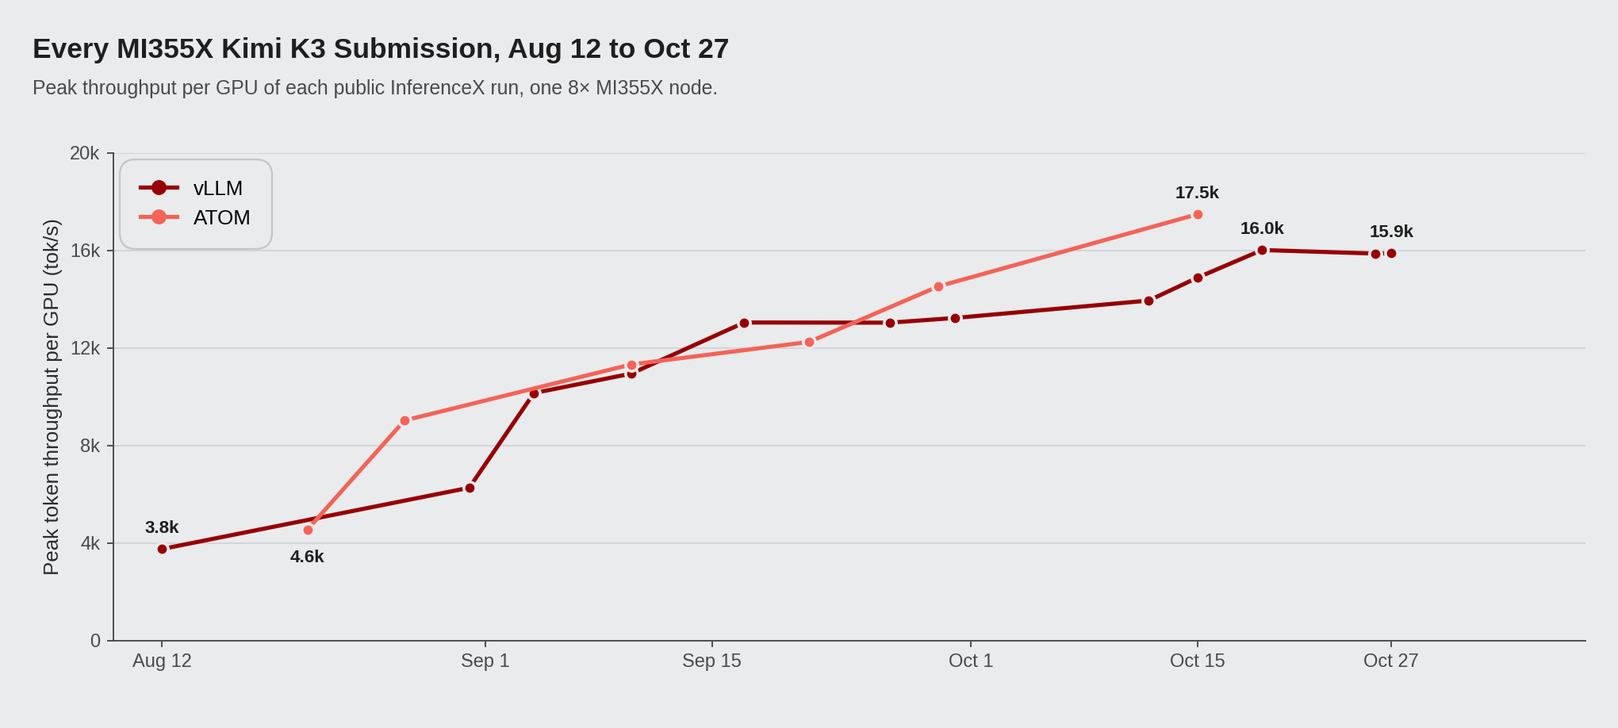
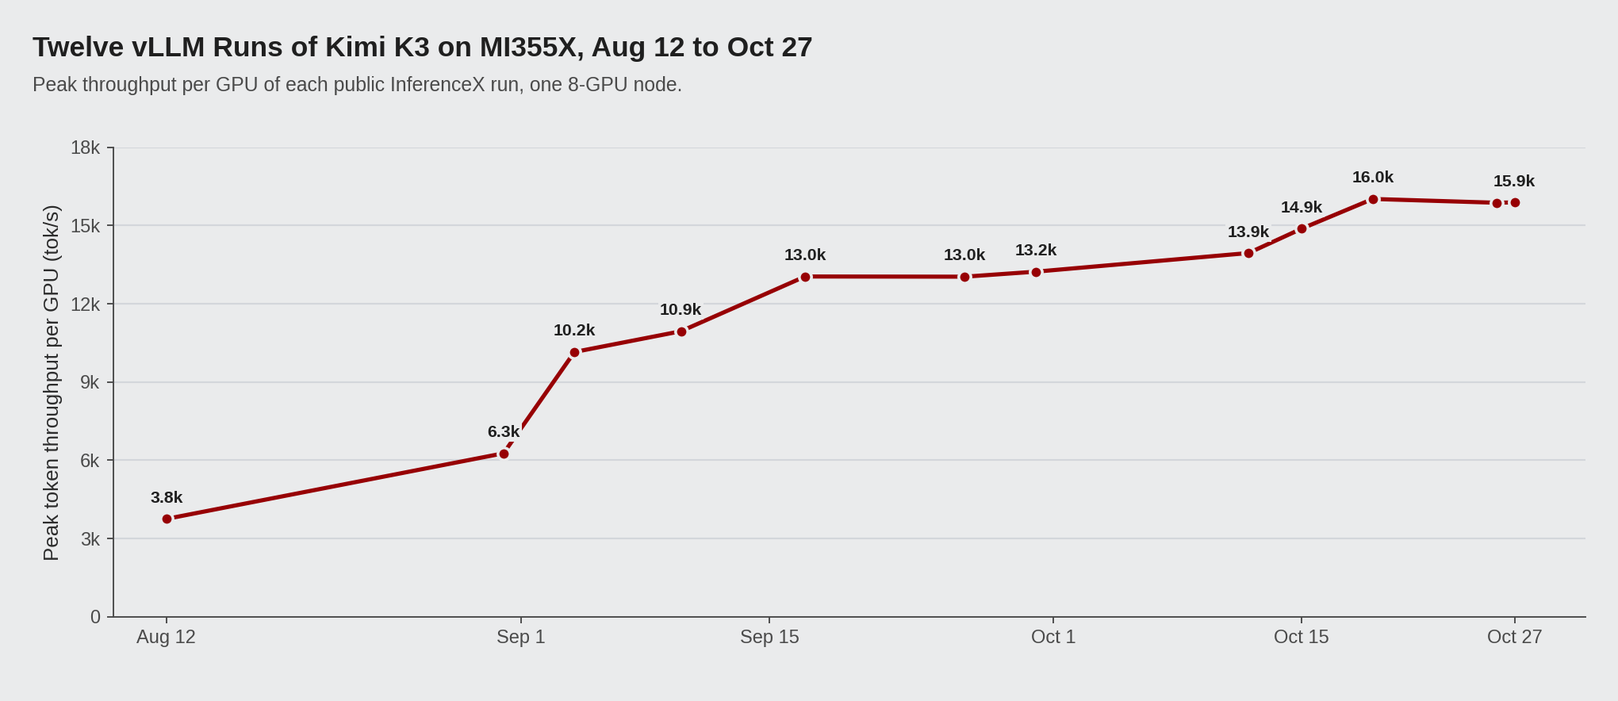
Kimi-K3 blog: vLLM only, own wording, distinct from the DSv4 post
- Drop all ATOM content; the MI355X comparison and every figure now use
  the vLLM results only (peak 19.7M tokens per $1 TCO, 3.8k -> 15.9k
  tokens/s per GPU over twelve runs)
- New title and section headings, and rewrite the text in a plainer
  voice so it no longer repeats the DeepSeek-V4-Pro post sentence for
  sentence while keeping a similar structure
- Redraw Figures 2-4 (single vLLM panel and timeline, new chart titles)

diff --git a/mi355x-kimi-k3-tco/make_figures.py b/mi355x-kimi-k3-tco/make_figures.py
@@ -73,8 +73,12 @@ LATEST = load("kimik3_latest_20261030.json")
 
 
 def series(hw):
-    """Best of every published framework for each system, as the dashboard does."""
-    return points([r for r in LATEST if r["hardware"] == hw])
+    """Best of every published framework for each system, as the dashboard does.
+    For MI355X this post covers the vLLM results only (aggregated and disaggregated)."""
+    rows = [r for r in LATEST if r["hardware"] == hw]
+    if hw == "mi355x":
+        rows = [r for r in rows if r["framework"] != "atom"]
+    return points(rows)
 
 
 def stack(date, fw):
@@ -194,7 +198,7 @@ def fig_tco_frontier():
         ax.set_xlabel("P90 Interactivity (tok/s/user)", fontsize=12, color="#2b2b2b", labelpad=10)
         ax.set_ylabel(r"Total Tokens per \$1 TCO (tok/\$)", fontsize=12, color="#2b2b2b", labelpad=8)
         title(fig, r"Kimi K3 2.8T Agentic Total Tokens per \$1 TCO vs. P90 Interactivity",
-              "Rent – 3 Year Commit. Each curve is one system's best published framework.")
+              "Rent – 3 Year Commit. NVIDIA: best published framework per system. MI355X: vLLM.")
         legend_panel(fig, 0.785, 0.46, 0.198, 0.40, "Systems",
                      [(LABEL[hw], COLOR[hw]) for hw in ["gb300", "gb200", "b300", "b200", "mi355x"]])
         fig.text(0.065, 0.025, "Dashed circles mark points with KV offload on. "
@@ -237,10 +241,10 @@ def fig_iso_ratio(tiers):
                 color=COLOR["mi355x"], fontweight="bold")
         ax.set_xlim(-0.5, len(hws) - 0.5)
         ax.set_xticks([])
-        ax.set_ylim(0, 3.3)
+        ax.set_ylim(0, 3.1)
         ax.set_ylabel(r"MI355X tokens/\$ ÷ NVIDIA tokens/\$", fontsize=11, color="#2b2b2b")
-        title(fig, r"MI355X Tokens per \$1 TCO vs. NVIDIA at the Same P90 Interactivity",
-              "Kimi K3 2.8T, Agentic, Rent – 3 Year Commit. Above the red line MI355X is cheaper per token.",
+        title(fig, r"Kimi K3: MI355X vs. NVIDIA, Tokens per \$1 TCO at Matched Interactivity",
+              "Rent – 3 Year Commit. A bar above the dashed line means MI355X costs less per token.",
               y=0.92)
         fig.text(0.07, 0.035, "Small numbers under the bars are P90 interactivity in tok/s/user. "
                  "n/a = no published point at that interactivity (no extrapolation). "
@@ -249,109 +253,94 @@ def fig_iso_ratio(tiers):
         plt.close(fig)
 
 
-PROGRESS = {
-    "vllm": ["2026-08-12", "2026-09-17", "2026-10-15", "2026-10-27"],
-    "atom": ["2026-08-21", "2026-09-10", "2026-09-29", "2026-10-15"],
-}
+PROGRESS = ["2026-08-12", "2026-09-17", "2026-10-15", "2026-10-27"]
+
+
 def fig_progress():
-    """Figure 3: frontier of each MI355X stack at four of its submissions."""
+    """Figure 3: MI355X vLLM frontier at four of its submissions."""
     with plt.rc_context({"font.family": FONT}):
-        fig, axes = plt.subplots(1, 2, figsize=(14, 6.4), facecolor=BG, sharey=True)
-        fig.subplots_adjust(left=0.06, right=0.985, top=0.80, bottom=0.12, wspace=0.06)
+        fig, ax = plt.subplots(figsize=(12, 6.6), facecolor=BG)
+        fig.subplots_adjust(left=0.08, right=0.98, top=0.82, bottom=0.11)
         fig.canvas.draw()
         renderer = fig.canvas.get_renderer()
-        for ax, fw, name in [(axes[0], "vllm", "vLLM"), (axes[1], "atom", "ATOM")]:
-            dash_axes(ax, xgrid=True)
-            ax.set_xlim(0, 230)
-            ax.set_ylim(0, 19500)
-            taken = []
-            curves = []
-            for date, color in zip(PROGRESS[fw], REDS):
-                f = frontier(stack(date, fw))
-                for p in f:
-                    p["y"] = p["throughput"]
-                draw_curve(ax, f, color, lw=2.3 if color == REDS[-1] else 1.8)
-                curves.append((date, color, f))
-                for p in f:
-                    cx, cy = ax.transData.transform((p["interactivity"], p["y"]))
-                    r = 8 * fig.dpi / 72
-                    taken.append(Bbox.from_extents(cx - r, cy - r, cx + r, cy + r))
-            handles = [Line2D([], [], marker="o", ls="-", lw=2, ms=7, color=color, label=date)
-                       for date, color, _ in curves]
-            leg = ax.legend(handles=handles, loc="upper right", fontsize=10.5, frameon=True,
-                            facecolor=BG, edgecolor="#c4c7cc", framealpha=1, borderpad=0.8,
-                            labelspacing=0.6, handlelength=1.6)
-            leg.get_frame().set_boxstyle("round,pad=0.2,rounding_size=0.8")
-            fig.canvas.draw()
-            taken.append(leg.get_window_extent(renderer).expanded(1.03, 1.05))
-            inside = ax.get_window_extent(renderer)
-            for date, color, f in reversed(curves):
-                for p in f:
-                    for dx, dy, ha, va in [(0, 9, "center", "bottom"), (0, -10, "center", "top"),
-                                           (10, 3, "left", "bottom"), (-10, 3, "right", "bottom")]:
-                        t = ax.annotate(parallelism_label(p["row"]), (p["interactivity"], p["y"]),
-                                        textcoords="offset points", xytext=(dx, dy), ha=ha, va=va,
-                                        fontsize=7.5, fontweight="bold", color=INK, zorder=6)
-                        bb = t.get_window_extent(renderer).expanded(1.06, 1.25)
-                        if (bb.x0 >= inside.x0 and bb.x1 <= inside.x1 and bb.y0 >= inside.y0
-                                and bb.y1 <= inside.y1 and not any(bb.overlaps(o) for o in taken)):
-                            taken.append(bb)
-                            break
-                        t.remove()
-            ax.set_title(f"MI355X ({name})", fontsize=12.5, fontweight="bold", color=INK, loc="left")
-            ax.set_xlabel("P90 Interactivity (tok/s/user)", fontsize=11.5, color="#2b2b2b")
-        axes[0].set_ylabel("Token Throughput per Chip (tok/s/chip)", fontsize=11.5, color="#2b2b2b")
-        axes[0].yaxis.set_major_formatter(plt.FuncFormatter(lambda v, _: "0" if v == 0 else f"{v / 1000:g}k"))
-        title(fig, "Kimi K3 2.8T Agentic Token Throughput per Chip vs. P90 Interactivity",
-              "One 8× MI355X node. Each line is one submission; labels show the parallelism layout.")
+        dash_axes(ax, xgrid=True)
+        ax.set_xlim(0, 230)
+        ax.set_ylim(0, 18000)
+        taken, curves = [], []
+        for date, color in zip(PROGRESS, REDS):
+            f = frontier(stack(date, "vllm"))
+            for p in f:
+                p["y"] = p["throughput"]
+            draw_curve(ax, f, color, lw=2.4 if color == REDS[-1] else 1.8)
+            curves.append((date, color, f))
+            for p in f:
+                cx, cy = ax.transData.transform((p["interactivity"], p["y"]))
+                r = 8 * fig.dpi / 72
+                taken.append(Bbox.from_extents(cx - r, cy - r, cx + r, cy + r))
+        leg = ax.legend(handles=[Line2D([], [], marker="o", ls="-", lw=2, ms=7, color=c, label=d)
+                                 for d, c, _ in curves],
+                        loc="upper right", fontsize=10.5, frameon=True, facecolor=BG,
+                        edgecolor="#c4c7cc", framealpha=1, borderpad=0.8, labelspacing=0.6,
+                        handlelength=1.6)
+        leg.get_frame().set_boxstyle("round,pad=0.2,rounding_size=0.8")
+        fig.canvas.draw()
+        taken.append(leg.get_window_extent(renderer).expanded(1.03, 1.05))
+        inside = ax.get_window_extent(renderer)
+        for date, color, f in reversed(curves):
+            for p in f:
+                for dx, dy, ha, va in [(0, 9, "center", "bottom"), (0, -10, "center", "top"),
+                                       (10, 3, "left", "bottom"), (-10, 3, "right", "bottom")]:
+                    t = ax.annotate(parallelism_label(p["row"]), (p["interactivity"], p["y"]),
+                                    textcoords="offset points", xytext=(dx, dy), ha=ha, va=va,
+                                    fontsize=7.5, fontweight="bold", color=INK, zorder=6)
+                    bb = t.get_window_extent(renderer).expanded(1.06, 1.25)
+                    if (bb.x0 >= inside.x0 and bb.x1 <= inside.x1 and bb.y0 >= inside.y0
+                            and bb.y1 <= inside.y1 and not any(bb.overlaps(o) for o in taken)):
+                        taken.append(bb)
+                        break
+                    t.remove()
+        ax.set_xlabel("P90 Interactivity (tok/s/user)", fontsize=11.5, color="#2b2b2b")
+        ax.set_ylabel("Token Throughput per Chip (tok/s/chip)", fontsize=11.5, color="#2b2b2b")
+        ax.yaxis.set_major_formatter(plt.FuncFormatter(lambda v, _: "0" if v == 0 else f"{v / 1000:g}k"))
+        title(fig, "Kimi K3 2.8T on MI355X (vLLM): Token Throughput per Chip vs. P90 Interactivity",
+              "One 8-GPU node. Each line is one submission; labels show the parallelism layout.")
         fig.savefig(os.path.join(OUT, "mi355x-progress-aug-oct.png"), dpi=150, facecolor=BG)
         plt.close(fig)
 
 
 def fig_timeline():
-    """Figure 4: peak throughput per GPU of every vLLM and ATOM submission."""
+    """Figure 4: peak throughput per GPU of every MI355X vLLM submission."""
     start = _date(2026, 8, 12)
+    runs = []
+    for f in sorted(os.listdir(DATA)):
+        if f.startswith("kimik3_2026-"):
+            pts = stack(f[7:17], "vllm")
+            if pts:
+                runs.append((f[7:17], max(p["throughput"] for p in pts)))
     with plt.rc_context({"font.family": FONT}):
-        fig, ax = plt.subplots(figsize=(12, 5.4), facecolor=BG)
+        fig, ax = plt.subplots(figsize=(12, 5.2), facecolor=BG)
         fig.subplots_adjust(left=0.07, right=0.98, top=0.79, bottom=0.12)
-        dash_axes(ax, xgrid=False)
-        dates_by_fw = {}
-        for f in sorted(os.listdir(DATA)):
-            if not f.startswith("kimik3_2026-"):
-                continue
-            d = f[7:17]
-            for fw in ("vllm", "atom"):
-                pts = stack(d, fw)
-                if pts:
-                    dates_by_fw.setdefault(fw, []).append((d, max(p["throughput"] for p in pts)))
-        handles = []
-        for fw, color, name in [("vllm", "#970004", "vLLM"), ("atom", "#f36358", "ATOM")]:
-            xs = [(_date.fromisoformat(d) - start).days for d, _ in dates_by_fw[fw]]
-            ys = [y for _, y in dates_by_fw[fw]]
-            ax.plot(xs, ys, "-o", color=color, lw=2.2, ms=6.5, mec=BG, mew=1.5, zorder=4)
-            handles.append(Line2D([], [], marker="o", ls="-", lw=2.2, ms=7, color=color, label=name))
-            for i, (x, y) in enumerate(zip(xs, ys)):
-                if i in (0, len(xs) - 1) or y == max(ys):
-                    # ATOM's first point sits just under the vLLM line, so label it below
-                    dy = -15 if (fw == "atom" and i == 0) else 11
-                    ax.annotate(f"{y / 1000:.1f}k", (x, y), textcoords="offset points",
-                                xytext=(0, dy), ha="center", va="center", fontsize=9.5,
-                                fontweight="bold", color=INK, zorder=6,
-                                bbox=dict(boxstyle="square,pad=0.1", fc=BG, ec="none"))
-        leg = ax.legend(handles=handles, loc="upper left", fontsize=11, frameon=True, facecolor=BG,
-                        edgecolor="#c4c7cc", framealpha=1, borderpad=0.8, handlelength=1.8)
-        leg.get_frame().set_boxstyle("round,pad=0.2,rounding_size=0.8")
+        dash_axes(ax)
+        xs = [(_date.fromisoformat(d) - start).days for d, _ in runs]
+        ys = [y for _, y in runs]
+        ax.plot(xs, ys, "-o", color="#970004", lw=2.2, ms=6.5, mec=BG, mew=1.5, zorder=4)
+        for i, (x, y) in enumerate(zip(xs, ys)):
+            if i + 1 < len(xs) and xs[i + 1] - x <= 2:
+                continue  # a run one day later sits on top of this label
+            ax.annotate(f"{y / 1000:.1f}k", (x, y), textcoords="offset points", xytext=(0, 11),
+                        ha="center", va="center", fontsize=9, fontweight="bold", color=INK,
+                        zorder=6, bbox=dict(boxstyle="square,pad=0.1", fc=BG, ec="none"))
         ticks = [_date(2026, 8, 12), _date(2026, 9, 1), _date(2026, 9, 15), _date(2026, 10, 1),
                  _date(2026, 10, 15), _date(2026, 10, 27)]
         ax.set_xticks([(t - start).days for t in ticks])
         ax.set_xticklabels([t.strftime("%b %-d") for t in ticks], fontsize=10)
-        ax.set_xlim(-3, (ticks[-1] - start).days + 12)
-        ax.set_ylim(0, 20000)
-        ax.set_yticks(range(0, 20001, 4000))
+        ax.set_xlim(-3, (ticks[-1] - start).days + 4)
+        ax.set_ylim(0, 18000)
+        ax.set_yticks(range(0, 18001, 3000))
         ax.yaxis.set_major_formatter(plt.FuncFormatter(lambda v, _: "0" if v == 0 else f"{v / 1000:.0f}k"))
         ax.set_ylabel("Peak token throughput per GPU (tok/s)", fontsize=11, color="#2b2b2b")
-        title(fig, "Every MI355X Kimi K3 Submission, Aug 12 to Oct 27",
-              "Peak throughput per GPU of each public InferenceX run, one 8× MI355X node.", y=0.92)
+        title(fig, "Twelve vLLM Runs of Kimi K3 on MI355X, Aug 12 to Oct 27",
+              "Peak throughput per GPU of each public InferenceX run, one 8-GPU node.", y=0.92)
         fig.savefig(os.path.join(OUT, "submission-timeline.png"), dpi=170, facecolor=BG)
         plt.close(fig)
 

diff --git a/mi355x-kimi-k3-tco/blog.md b/mi355x-kimi-k3-tco/blog.md
@@ -1,65 +1,65 @@
-# 4.6× in Eleven Weeks: AMD Instinct™ MI355X Leads B200, B300 and GB200 on Kimi-K3 Agentic Inference Cost
+# One MI355X Node for All 2.8T Parameters: Kimi-K3 on vLLM at Up to 2.6× the Tokens per Dollar of B200
 
 *November 2026*
 
-On SemiAnalysis's public InferenceX dashboard for Kimi-K3 (2.8T, FP4) agentic inference, a single 8-GPU AMD Instinct MI355X node now gets more tokens per dollar than B200, B300 and GB200 NVL72 at every interactivity level where they have published results: 2.0–2.6× B200, 2.0–3.0× B300 and 1.3–2.1× GB200 NVL72. Its peak of 21.7M tokens per $1 TCO is the highest on the Kimi-K3 dashboard, 2.09× B200 and 1.14× GB300 NVL72.
+Kimi-K3's FP4 weights take about 1.56 TB, more than eight B200s or eight GB200s can hold. Eight AMD Instinct MI355X GPUs have 2.3 TB between them, so the model runs on a single node. On SemiAnalysis's public AgentX benchmark, that node, running vLLM, now produces 1.9–2.6× the tokens per dollar of B200, 2.0–2.8× of B300 and 1.3–2.0× of GB200 NVL72 wherever they have results at the same interactivity. Its peak, 19.7M tokens per $1 TCO, is the highest on the Kimi-K3 dashboard.
 
-We got here in eleven weeks, from Aug 12 to Oct 27, with software work on the same hardware; over that time the best peak throughput per GPU on MI355X went from 3.8k to 17.5k tokens/s.
+The first MI355X run of the model, on Aug 12, peaked at 3.8k tokens/s per GPU. Eleven weeks and twelve vLLM submissions later, on Oct 27, it reached 15.9k on the same hardware.
 
-This post covers why the whole model fits on one MI355X node, how that node compares with NVIDIA's systems, and the kernel and serving work in vLLM and ATOM behind the numbers.
+Below we compare the node with NVIDIA's Blackwell systems, follow the runs over those eleven weeks, and go through the kernel and vLLM changes that made the difference.
 
 ![Figure 1](figures/tco-frontier-vs-nvidia.png)
 
-*Figure 1: Kimi-K3 FP4 AgentX, total tokens per $1 TCO vs. P90 interactivity, Rent – 3-year commit tier, drawn in the dashboard's style from the InferenceX public API (retrieved 2026-10-30). Each curve is one system's best published framework; MI355X is one 8-GPU node running vLLM or ATOM. Dashed circles mark points with KV offload on.*
+*Figure 1: Total tokens per $1 TCO against P90 interactivity for Kimi-K3 FP4 on AgentX, Rent – 3-year commit pricing, drawn in the dashboard's style from the InferenceX public API (retrieved 2026-10-30). NVIDIA curves use each system's best published framework; MI355X is one 8-GPU node with vLLM. A dashed ring means KV offload was on for that point.*
 
-## AgentX and Kimi-K3 in brief
+## The benchmark and the model
 
-AgentX is a SemiAnalysis benchmark built from real agentic coding sessions and run through the public InferenceX CI. It replays whole sessions: each turn adds tool output to the context and sends everything back to the model. A session runs about 43 turns, the median turn has 142K input tokens and 444 output tokens, and over 96% of prompt tokens repeat a prefix the server has already processed.
+SemiAnalysis's AgentX benchmark runs in the public InferenceX CI and replays recorded agentic coding sessions turn by turn, sending the growing context back to the model at each step. Sessions average about 43 turns. A typical turn sends 142K tokens and gets 444 back, and the server has already seen more than 96% of each prompt.
 
-Kimi-K3 is a 2.8T-parameter MoE with 896 experts and a 1M-token native context. Its attention mixes two kinds of layers: Kimi Delta Attention (KDA) layers keep a recurrent state for each request, and MLA layers keep a paged KV cache. It ships with a DSpark draft head (Inferact/Kimi-K3-DSpark) for speculative decoding. The mix makes agentic serving harder than for a pure-MLA model. When a session comes back for its next turn, the server has to restore both the paged KV and the KDA state, or recompute the prefix, and on AgentX that happens on almost every request.
+Kimi-K3 has 2.8T parameters across 896 experts and a native context of 1M tokens. Some of its layers use Kimi Delta Attention (KDA), which carries a recurrent state per request; the rest use MLA with a paged KV cache. A DSpark draft head (Inferact/Kimi-K3-DSpark) comes with it for speculative decoding. For agent traffic the mix is awkward. A returning session needs both its KV pages and its KDA state back, or the prefix gets recomputed, and on AgentX nearly every request is a returning session.
 
-## Comparison with NVIDIA
+## Against NVIDIA's Blackwell systems
 
-Table 1 compares systems at fixed interactivity levels. Each system was measured at only a handful of concurrency settings, so its results rarely land exactly on a level such as 40 tok/s/user. We take the value from the curve between the two nearest measured points, the same way the dashboard draws its lines. When a system has no measurements on both sides of a level, we leave the cell empty ("—") instead of guessing.
+Every system was benchmarked at a few concurrency settings, so few results sit exactly on a round number like 40 tok/s/user. For Table 1 we read each curve at fixed levels, interpolating between the two closest measurements as the dashboard does, and leave a cell blank where a system has no data on both sides.
 
-*Table 1: Total tokens per $1 TCO in millions (Rent tier). "—" means the system has no published point at that interactivity. In parentheses: MI355X divided by that system. For each system we take the best point across all published frameworks.*
+*Table 1: Tokens per $1 TCO in millions at fixed P90 interactivity, Rent tier. The ratio in brackets is MI355X over that system; "—" marks a level the system has no data around. NVIDIA systems use their best published framework.*
 
 | P90 interactivity | MI355X | B200 | B300¹ | GB200 NVL72 | GB300 NVL72 |
 |---|---|---|---|---|---|
-| 25 tok/s/user | 20.8 | 9.9 (2.10×) | 7.1 (2.95×) | 9.8 (2.12×) | — |
-| 40 tok/s/user | 16.5 | 7.7 (2.15×) | 5.8 (2.83×) | 8.4 (1.96×) | 18.9 (0.87×) |
-| 60 tok/s/user | 11.0 | 4.9 (2.23×) | 4.6 (2.39×) | 7.1 (1.54×) | 17.2 (0.64×) |
+| 25 tok/s/user | 19.1 | 9.9 (1.92×) | 7.1 (2.71×) | 9.8 (1.94×) | — |
+| 40 tok/s/user | 16.5 | 7.7 (2.16×) | 5.8 (2.84×) | 8.4 (1.97×) | 18.9 (0.87×) |
+| 60 tok/s/user | 10.9 | 4.9 (2.22×) | 4.6 (2.38×) | 7.1 (1.54×) | 17.2 (0.63×) |
 | 80 tok/s/user | 8.4 | 3.4 (2.46×) | 3.8 (2.22×) | 6.6 (1.28×) | 12.1 (0.70×) |
-| 100 tok/s/user | 6.7 | 2.6 (2.59×) | 3.4 (1.97×) | 5.2 (1.30×) | 9.1 (0.74×) |
-| Peak | 21.7 | 10.4 (2.09×) | 10.6 (2.05×) | 9.9 (2.19×) | 19.1 (1.14×) |
+| 100 tok/s/user | 6.7 | 2.6 (2.59×) | 3.4 (1.96×) | 5.2 (1.30×) | 9.1 (0.74×) |
+| Peak | 19.7 | 10.4 (1.89×) | 10.6 (1.86×) | 9.9 (1.99×) | 19.1 (1.03×) |
 
-¹ The most recent published B300 Kimi-K3 results are from 2026-08-16. The other systems were measured in October.
+¹ B300's latest published Kimi-K3 results are from 2026-08-16; everything else was measured in October.
 
 ![Figure 2](figures/iso-interactivity-ratio.png)
 
-*Figure 2: MI355X tokens per dollar divided by each NVIDIA system's tokens per dollar at the same P90 interactivity (Rent tier). Above the red line MI355X is cheaper per token.*
+*Figure 2: The same comparison as a ratio, MI355X tokens per dollar over each NVIDIA system's, Rent tier. Bars above 1.0 mean a lower cost per token on MI355X.*
 
-MI355X is ahead of B200, B300 and GB200 NVL72 at every level in the table: 2.0–2.6× B200, 2.0–3.0× B300 and 1.3–2.1× GB200 on tokens per dollar. Most of the lead over B200 comes from throughput rather than price. Per GPU, MI355X produces 1.6–2.0× B200's throughput across this range, for example 13.3k vs. 7.9k tok/s at 40 tok/s/user, and 1.4–1.5× GB200's at 25–40 tok/s/user. On the Owning cost tier, MI355X still gets 1.8–2.3× the tokens per dollar of B200 and 1.2–1.9× of GB200.
+B200, B300 and GB200 NVL72 trail MI355X at every level in the table, by 1.9–2.6×, 2.0–2.8× and 1.3–2.0×. Against B200 the gap is mainly throughput, not price: one MI355X GPU does 1.5–2.0× the work of one B200 over this range, 13.3k against 7.9k tokens/s at 40 tok/s/user. Against GB200 it does about 1.4× the work at 25–40 tok/s/user. Owning-tier prices narrow the lead a little, to 1.7–2.3× over B200 and 1.2–1.8× over GB200.
 
-GB300 NVL72 is ahead from 40 tok/s/user up, with MI355X at 0.64–0.87× of its tokens per dollar. Those GB300 points come from wide-EP disaggregated deployments of 24 to 40 GPUs inside the NVLink rack. MI355X's peak of 21.7M is higher than GB300's 19.1M, and it is reached at 20.7 tok/s/user, below the lowest interactivity GB300 has published.
+GB300 NVL72 is the exception. From 40 tok/s/user up it gets more tokens per dollar, with MI355X at 0.63–0.87× of it, using disaggregated wide-EP setups of 24 to 40 GPUs within the NVLink rack. At the low-interactivity end the MI355X peak, 19.7M at 20.5 tok/s/user, edges past GB300's 19.1M.
 
-## How the curve evolved in eleven weeks
+## Twelve runs in eleven weeks
 
-Our first Kimi-K3 AgentX run on MI355X, with vLLM on Aug 12, came two weeks after the first NVIDIA result and peaked at 3.8k tokens/s per GPU. By Oct 27 vLLM peaked at 15.9k. ATOM started on Aug 21 at 4.6k and peaked at 17.5k on Oct 15. At 40 tok/s/user P90 interactivity, vLLM went from 2.1k to 13.1k tokens/s per GPU, and its single-user speed from 61 to 212 tok/s/user. Figure 3 shows how each stack's curve moved, and Figure 4 tracks all 18 submissions, 12 with vLLM and 6 with ATOM. Each one is a public InferenceX CI run on the same MI355X cluster, one 8-GPU node per server.
+The first vLLM run of Kimi-K3 AgentX on MI355X went in on Aug 12, two weeks after the first NVIDIA result, and peaked at 3.8k tokens/s per GPU. By Oct 27 the peak was 15.9k. The gain is bigger at moderate interactivity: at 40 tok/s/user, throughput went from 2.1k to 13.1k tokens/s per GPU, and single-user speed went from 61 to 212 tok/s/user. Figure 3 shows four of the twelve runs and Figure 4 shows the peak of every one. All of them ran in the public InferenceX CI, with one 8-GPU MI355X node per server.
 
 ![Figure 3](figures/mi355x-progress-aug-oct.png)
 
-*Figure 3: Throughput per GPU vs. P90 interactivity for Kimi-K3 FP4 AgentX on MI355X, four submissions for each of vLLM and ATOM. Point labels give the parallelism layout; dashed circles mark KV offload to the DRAM tier.*
+*Figure 3: Throughput per GPU against P90 interactivity for four of the vLLM runs. Labels give the parallelism layout (TP8, or TP8 with 8-way decode context parallelism); a dashed ring means the point used the DRAM KV tier.*
 
 ![Figure 4](figures/submission-timeline.png)
 
-*Figure 4: Peak throughput per GPU of every MI355X Kimi-K3 submission, Aug 12 to Oct 27.*
+*Figure 4: Peak throughput per GPU of all twelve vLLM runs.*
 
-vLLM's biggest jump came in its first three weeks, when decode context parallelism and a DRAM KV tier made concurrency 44–52 usable and the peak went from 3.8k to 10.2k. After that, throughput at 40 tok/s/user rose by up to 19% per run. ATOM nearly doubled its peak in its second run, six days after the first, and gained another 19–21% in each of its last two runs.
+Most of the peak gain came early. Within three weeks, decode context parallelism and a DRAM KV tier made concurrency 44–52 practical and took the peak from 3.8k to 10.2k. Later runs moved the peak less but kept lifting the middle of the curve, by up to 19% per run at 40 tok/s/user.
 
-## MI355X hardware
+## Why one node is enough
 
-*Table 2: Per-GPU specifications from the InferenceX GPU specs page, and the Rent – 3-year commit price used for TCO.*
+*Table 2: Memory, bandwidth, dense FP4 compute and Rent – 3-year commit price per GPU. Hardware figures are from the InferenceX GPU specs page.*
 
 | | MI355X | B200 | B300 | GB200 NVL72 | GB300 NVL72 |
 |---|---|---|---|---|---|
@@ -68,56 +68,51 @@ vLLM's biggest jump came in its first three weeks, when decode context paralleli
 | Dense FP4 | 10.1 PFLOPS | 9.0 PFLOPS | 13.5 PFLOPS | 10.0 PFLOPS | 15.0 PFLOPS |
 | Rent, $/GPU-hour | $2.90 | $3.70 | $4.25 | $4.00 | $5.00 |
 
-Memory capacity decides how this model can be deployed. Kimi-K3's MXFP4 weights are about 1.56 TB. With TP8 on MI355X that is about 195 GB per GPU, so the whole model fits on one 8-GPU node with room left for KV cache. Eight B200s have 1.44 TB and eight GB200s 1.49 TB, so the published B200 and GB200 configurations split the model across two nodes with pipeline parallelism.
+The deciding number is memory. At TP8, Kimi-K3's 1.56 TB of MXFP4 weights come to about 195 GB per MI355X, which leaves headroom for KV cache within one node. Eight B200s (1.44 TB) or eight GB200s (1.49 TB) cannot hold the weights at all, so the published configurations for both spread the model over two nodes with pipeline parallelism and take on the cross-node traffic that comes with it.
 
-On compute, MI355X has a little more dense FP4 than B200 (10.1 vs. 9.0 PFLOPS), yet at 40 tok/s/user it produces 1.68× B200's throughput per GPU. Much of the kernel work described below went into that gap.
+Compute is closer. MI355X has 10.1 PFLOPS of dense FP4 against B200's 9.0, so its 1.69× per-GPU lead at 40 tok/s/user is mostly a software result. The next section covers where it came from.
 
-## Key optimizations
+## What moved the numbers
 
-All of the changes below are in public images (`vllm/vllm-openai-rocm` nightlies and `rocm/atom-dev`) and the [InferenceX recipes](https://github.com/SemiAnalysisAI/InferenceX). Table 3 lists the ones with the largest measured effect, roughly from biggest to smallest.
+Table 3 ranks the vLLM changes by measured effect. All of them ship in the public `vllm/vllm-openai-rocm` nightly images and are wired up in the [InferenceX recipes](https://github.com/SemiAnalysisAI/InferenceX).
 
-*Table 3: Main optimizations and their measured effect. Throughput is per GPU; "at 40 tok/s/user" is read off each run's frontier.*
+*Table 3: vLLM changes on MI355X ranked by effect, throughput per GPU. Values at a given tok/s/user are read off each run's curve.*
 
-| Optimization | Where | Measured effect | Landed |
+| Change | Components | Effect | Run |
 |---|---|---|---|
-| Decode context parallelism (DCP8), DRAM KV tier | vLLM, ATOM, AITER | vLLM: throughput at 40 tok/s/user 2.1k → 6.9k, peak 3.8k → 10.2k; ATOM: peak 4.6k → 9.0k | Aug 27–Sep 4 |
-| ReplaySSM, full CUDA graphs, FP16 SSM state | ATOM | Throughput at 40 tok/s/user 5.6k → 8.3k (+48%) | Sep 10, Sep 21 |
-| DSpark draft kept on at high concurrency, gated RMSNorm prefill | ATOM | Throughput at 40 tok/s/user +29%; peak 14.5k → 17.5k | Oct 15 |
+| DCP8 and a DRAM KV tier | vLLM, AITER | At 40 tok/s/user 2.1k → 6.9k; peak 3.8k → 10.2k | Aug 31–Sep 4 |
 | AITER MLA for the DSpark draft | vLLM, AITER | +28.9% P90 interactivity and +14.5% throughput at concurrency 1 | Sep 17 |
-| FlyDSL FP8 prefill attention, prefill delayer | ATOM, FlyDSL | Throughput at 40 tok/s/user +24%; peak 12.2k → 14.5k | Sep 29 |
-| AITER Gluon KDA kernels, low-latency MoE router GEMM | vLLM, AITER | Throughput at 40 tok/s/user +19%; peak 14.9k → 16.0k | Oct 19 |
-| Persistent FlyDSL decode kernels at concurrency 1 | vLLM, FlyDSL | Single-user speed 178 → 211 tok/s/user (+19%) | Oct 26 |
-| Tail-aware admission caps | vLLM | Throughput at 40 tok/s/user +15%, at 60 tok/s/user +17% | Oct 27 |
+| DCP8 at nearly every point, AITER ASM verify | vLLM, AITER | +26% at 20 tok/s/user | Oct 12 |
+| AITER Gluon KDA kernels, low-latency MoE router GEMM | vLLM, AITER | +19% at 40 tok/s/user; peak 14.9k → 16.0k | Oct 19 |
+| Persistent FlyDSL decode kernels at concurrency 1 | vLLM, FlyDSL | Single-user speed 178 → 211 tok/s/user | Oct 26 |
+| FP8 fusions, latent-MoE local shards | vLLM | +17% at 30 tok/s/user; peak 13.9k → 14.9k | Oct 15 |
+| Tail-aware admission caps | vLLM | +15% at 40 tok/s/user, +17% at 60 tok/s/user | Oct 27 |
 
-### Decode context parallelism and a DRAM KV tier
+### Decode context parallelism and the DRAM KV tier
 
-At 100K+ tokens of context, decode is limited by KV bandwidth. Decode context parallelism shards the KV read across all eight GPUs, using an all-to-all backend and an AITER ASM kernel for the multi-token verify step. Paged KV that no longer fits in HBM goes to a DRAM tier of about 225 GB per rank, through SimpleCPUOffloadConnector in vLLM and LMCache in ATOM, with each rank's pool pinned to its own socket. Together these made concurrency 44–72 usable on a single node. The vLLM run that moved DCP8 to nearly every point raised throughput at 20 tok/s/user by 26%.
-
-### Kimi Delta Attention state
-
-Each request's KDA state is about 55 MiB. ATOM's first recipes offloaded it to CPU next to the paged KV. ReplaySSM replaced that: it rebuilds the state in place from a checkpoint ring kept in GPU memory, so the whole CPU budget can go to paged KV. The same change captured full CUDA graphs over the DSpark verify range and pinned the ranks to their sockets. Storing the SSM state in FP16 instead of FP32 then returned up to 7.8% of the KV pool, and a batch-size-1 CUDA graph stopped single-sequence decode steps from replaying the batch-size-2 graph, which had been 92% of steps at concurrency 1. Across these two changes, throughput at 40 tok/s/user went from 5.6k to 8.3k.
+Agent turns carry contexts well past 100K tokens, and at that length decode spends most of its time reading KV. With decode context parallelism the KV read is split over all eight GPUs, partial results are combined with an all-to-all, and the multi-token verify step for speculative decoding runs on an AITER ASM kernel. KV pages that no longer fit in HBM go to a DRAM tier of about 225 GB per rank through SimpleCPUOffloadConnector. With both in place, concurrency up to 60 fits on one node. Applying DCP8 to nearly every concurrency later raised throughput at 20 tok/s/user by another 26%.
 
 ### Speculative decoding
 
-Both stacks use the DSpark draft head, with the draft length set per concurrency: 7 tokens at concurrency 1, then fewer as batches grow. In vLLM, moving the draft's attention from Triton MLA to AITER MLA ([vllm#55966](https://github.com/vllm-project/vllm/pull/55966)) raised P90 interactivity by 28.9% and throughput by 14.5% at concurrency 1. ATOM now keeps a 4-token draft on at concurrency 48–72, where it previously ran without one, and added a gated RMSNorm pipeline for prefill ([ROCm/ATOM#2458](https://github.com/ROCm/ATOM/pull/2458)). That change raised ATOM's throughput at 40 tok/s/user by 29% and its peak from 14.5k to 17.5k.
+vLLM drafts with the DSpark head and sets the draft length by concurrency: 7 tokens at concurrency 1, then 5, then 4 as batches grow. The largest single gain here came from the draft's own attention. Switching it from Triton MLA to AITER MLA ([vllm#55966](https://github.com/vllm-project/vllm/pull/55966)) raised P90 interactivity by 28.9% and throughput by 14.5% at concurrency 1.
 
 ### AITER and FlyDSL kernels
 
-The experts run on AITER's MXFP4 MoE kernels (SITUV2, A4W4 and A8W4) with FlyDSL stage-2 FP8. Around them, vLLM gained a low-latency MoE router GEMM for any shape ([vllm#61895](https://github.com/vllm-project/vllm/pull/61895)), preshuffled FP4 GEMM configs, and latent-MoE up-projections that keep only the local rank's shards ([vllm#59591](https://github.com/vllm-project/vllm/pull/59591)). KDA runs on AITER Gluon kernels for decode and speculative decode ([vllm#57392](https://github.com/vllm-project/vllm/pull/57392)) and for chunked prefill ([vllm#59552](https://github.com/vllm-project/vllm/pull/59552)). The vLLM image that brought the Gluon KDA decode kernels and the router GEMM raised throughput at 40 tok/s/user by 19%.
+The 896 experts run on AITER MXFP4 MoE kernels (SITUV2, A8W4) with FlyDSL stage-2 FP8. Smaller pieces around them added up: a low-latency MoE router GEMM for any input shape ([vllm#61895](https://github.com/vllm-project/vllm/pull/61895)), preshuffled FP4 GEMM configurations, and latent-MoE up-projections that store only the local rank's shards ([vllm#59591](https://github.com/vllm-project/vllm/pull/59591)). KDA got AITER Gluon kernels for decode and speculative decode ([vllm#57392](https://github.com/vllm-project/vllm/pull/57392)) and for chunked prefill ([vllm#59552](https://github.com/vllm-project/vllm/pull/59552)). The image with the Gluon KDA decode kernels and the router GEMM raised throughput at 40 tok/s/user by 19%. An earlier one, with FP8 fusions such as AttnRes output plus per-token FP8 quantization ([vllm#59069](https://github.com/vllm-project/vllm/pull/59069)) and the latent-MoE change, added 17% at 30 tok/s/user.
 
-In ATOM, FlyDSL FP8 prefill attention, together with holding a ready prefill for four decode passes at concurrency 16 and up, raised throughput at 40 tok/s/user by 24%. For single-user decode, vLLM now runs each MoE decoder layer at concurrency 1 as one persistent FlyDSL kernel with the TP all-reduce inside it ([vllm#60683](https://github.com/vllm-project/vllm/pull/60683)), which took single-user speed from 178 to 211 tok/s/user.
+A single-user decode step is a chain of small kernels and collectives, so launch and synchronization overhead dominate it. At concurrency 1, vLLM now runs each MoE decoder layer as one persistent FlyDSL kernel with the TP all-reduce done inside it ([vllm#60683](https://github.com/vllm-project/vllm/pull/60683)). That took single-user speed from 178 to 211 tok/s/user.
 
 ### Admission control
 
-In one vLLM run, the slowest 10% of decode steps all happened in the largest batches. Capping the number of running sequences at concurrency 4–32 below that point raised throughput at 40 tok/s/user by 15% and at 60 tok/s/user by 17%.
+In one run the slowest 10% of decode steps all fell in the largest batches. Capping running sequences at concurrency 4–32 below that size raised throughput by 15% at 40 tok/s/user and 17% at 60 tok/s/user.
 
 ## Acknowledgements
 
-Thanks to the vLLM and Moonshot AI communities, to Inferact for the DSpark draft model, to SemiAnalysis for AgentX and the InferenceX CI infrastructure, and to the AMD AITER, FlyDSL, ATOM, vLLM and ROCm teams.
+We thank Moonshot AI and the vLLM community, Inferact for the DSpark draft model, SemiAnalysis for running AgentX and the InferenceX CI, and the AMD AITER, FlyDSL, vLLM and ROCm teams.
 
 ## References
 
 1. SemiAnalysis InferenceX, Kimi-K3 dashboard. https://inferencex.semianalysis.com/inference/kimi-k3
-2. SemiAnalysis AI Cloud TCO Model (source of the $/GPU/hr rates). https://semianalysis.com/ai-cloud-tco-model/
-3. AMD, *MoRI UMBP Empowers AMD Instinct™ MI355X GPU to Demonstrate Token-per-Dollar TCO Leadership on the Public AgentX Leaderboard* (more on the AgentX benchmark). https://www.amd.com/en/developer/resources/technical-articles/2026/mori-umbp-empowers-amd-instinct-gpus.html
-4. InferenceX recipe history for MI355X Kimi-K3: vLLM PRs [#2508](https://github.com/SemiAnalysisAI/InferenceX/pull/2508), [#2787](https://github.com/SemiAnalysisAI/InferenceX/pull/2787), [#2810](https://github.com/SemiAnalysisAI/InferenceX/pull/2810), [#3124](https://github.com/SemiAnalysisAI/InferenceX/pull/3124), [#3833](https://github.com/SemiAnalysisAI/InferenceX/pull/3833), [#3951](https://github.com/SemiAnalysisAI/InferenceX/pull/3951), [#4215](https://github.com/SemiAnalysisAI/InferenceX/pull/4215), [#4393](https://github.com/SemiAnalysisAI/InferenceX/pull/4393), [#4473](https://github.com/SemiAnalysisAI/InferenceX/pull/4473); ATOM PRs [#2670](https://github.com/SemiAnalysisAI/InferenceX/pull/2670), [#2716](https://github.com/SemiAnalysisAI/InferenceX/pull/2716), [#2852](https://github.com/SemiAnalysisAI/InferenceX/pull/2852), [#3207](https://github.com/SemiAnalysisAI/InferenceX/pull/3207), [#3407](https://github.com/SemiAnalysisAI/InferenceX/pull/3407), [#4085](https://github.com/SemiAnalysisAI/InferenceX/pull/4085).
+2. SemiAnalysis AI Cloud TCO Model, for the $/GPU/hr rates. https://semianalysis.com/ai-cloud-tco-model/
+3. AMD, *MoRI UMBP Empowers AMD Instinct™ MI355X GPU to Demonstrate Token-per-Dollar TCO Leadership on the Public AgentX Leaderboard*, for more on AgentX. https://www.amd.com/en/developer/resources/technical-articles/2026/mori-umbp-empowers-amd-instinct-gpus.html
+4. InferenceX recipe history for MI355X Kimi-K3 on vLLM: PRs [#2508](https://github.com/SemiAnalysisAI/InferenceX/pull/2508), [#2787](https://github.com/SemiAnalysisAI/InferenceX/pull/2787), [#2810](https://github.com/SemiAnalysisAI/InferenceX/pull/2810), [#3124](https://github.com/SemiAnalysisAI/InferenceX/pull/3124), [#3833](https://github.com/SemiAnalysisAI/InferenceX/pull/3833), [#3951](https://github.com/SemiAnalysisAI/InferenceX/pull/3951), [#4215](https://github.com/SemiAnalysisAI/InferenceX/pull/4215), [#4393](https://github.com/SemiAnalysisAI/InferenceX/pull/4393), [#4473](https://github.com/SemiAnalysisAI/InferenceX/pull/4473).
